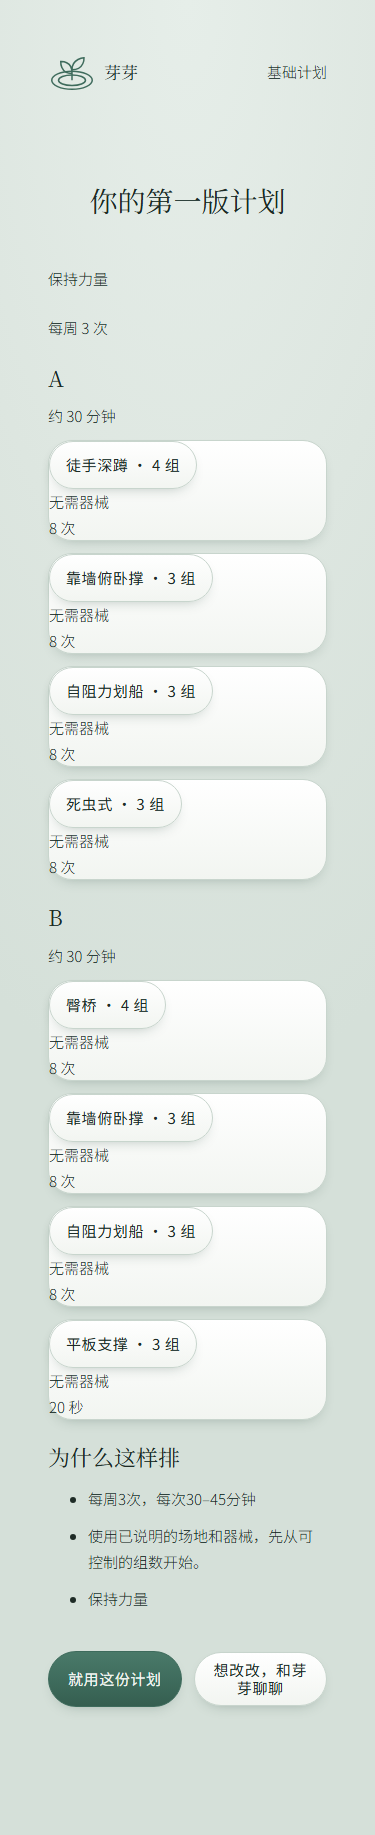
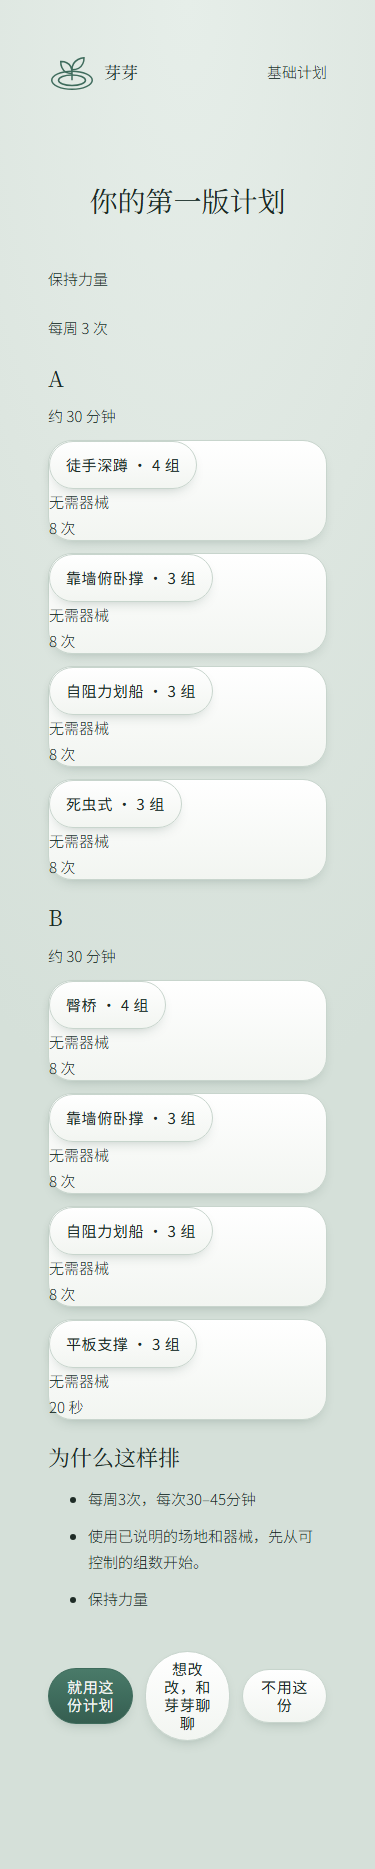
feat: add reversible plan removal and verified backup lifecycle to PR52

diff --git a/src/ui/mainline/context.tsx b/src/ui/mainline/context.tsx
@@ -1,3 +1,5 @@
+import { useFeature } from '../useFeature';
+import { isFeatureEnabled } from '../../application/feature-flags';
 import { countUsage, reportSafeError } from '../../application/monitoring-client';
 import { createContext, useContext, useEffect, useRef, useState, type ReactNode } from 'react';
 import { useLocation, useNavigate } from 'react-router-dom';
@@ -29,12 +31,15 @@ function week(timeZone: string) {
  return { from, to: date.toISOString().slice(0,10) };
 }
 function useController() {
+ const planLifecycle=useFeature('planLifecycle');
  const navigate = useNavigate(), location = useLocation(), appearance = useTheme();
  const [data,setData] = useState<Awaited<ReturnType<typeof workflow.snapshot>>>();
  const [monthFacts,setMonthFacts] = useState<MonthFacts>(), [previousFacts,setPreviousFacts]=useState<WeekFacts>(), [facts,setFacts] = useState<WeekFacts>(), [answers,setAnswers] = useState(blank), [step,setStep] = useState<0|1|2|3>(0);
  const [completedWeeks,setCompletedWeeks] = useState<[WeekFacts,WeekFacts]>();
  const [optionalCoach,setOptionalCoach]=useState<{body?:CoachRequest['body'];history?:string}>({});
  const [reviewKind,setReviewKind] = useState<'week'|'month'>('week');
+ const [draftDiscarded,setDraftDiscarded]=useState(false);
+ const [deletedNotice,setDeletedNotice]=useState<{planId:string;expiresAt:number}>();
  const [candidate,setCandidate] = useState<LocalCandidate>(), [busy,setBusy] = useState(false), [error,setError] = useState('');
  const [coachOpen,setCoachOpen]=useState(false),[coachRequest,setCoachRequest]=useState<CoachRequest>(),[coachRevision,setCoachRevision]=useState(0);
  const [coachInitialSend,setCoachInitialSend]=useState<{nonce:string;message:string;request:CoachRequest;expectedRevision:number}>();
@@ -56,13 +61,14 @@ function useController() {
  const locale: 'zh'|'en' = data?.profile?.locale === 'en' ? 'en' : 'zh', t = locale === 'zh' ? zh : en;
  const observedCounts=useRef<{plans:number;started:number;completed:number}|undefined>(undefined);
  async function reload() {
+  if(isFeatureEnabled('planLifecycle'))await workflow.purgeExpiredPlans();
   const next = await workflow.snapshot(); setData(next);
   const counters={plans:next.versions.length,started:next.workouts.length,completed:next.workouts.filter(w=>['complete','partial','not_started'].includes(w.status)).length};
   if(observedCounts.current){for(const [key,event] of [['plans','plan_confirmed'],['started','workout_started'],['completed','workout_completed']] as const){const delta=counters[key]-observedCounts.current[key];if(delta>0)countUsage(event,delta);}}observedCounts.current=counters;
   const review = await createV8DataService(repository).getReviewWorkouts();
   const legacyAnswers=(await repository.db.guidedStates.get('guided'))?.onboarding?.answers;
   setOptionalCoach({body:optionalCoachBody(next.profile,legacyAnswers),history:optionalCoachHistory([...review.legacyWorkouts,...review.workouts],activityDate(next.profile?.timeZone??'Asia/Shanghai'),next.profile?.timeZone??'Asia/Shanghai',next.profile?.locale==='en'?'en':'zh')});
-  const input={ ...week(next.profile?.timeZone ?? 'Asia/Shanghai'), timeZone: next.profile?.timeZone ?? 'Asia/Shanghai', weeklyTarget: next.version?.weeklyTarget ?? 2, ...review, activities: next.activities, bodyWeights: await repository.db.bodyWeights.toArray() };
+  const input={ ...week(next.profile?.timeZone ?? 'Asia/Shanghai'), timeZone: next.profile?.timeZone ?? 'Asia/Shanghai', weeklyTarget: next.version?.weeklyTarget ?? next.state?.reviewWeeklyTarget ?? next.state?.coachProfile?.weeklyTarget ?? 2, ...review, activities: next.activities, bodyWeights: await repository.db.bodyWeights.toArray() };
   setFacts(computeWeekFacts(input));
   const shift=(d:string,n:number)=>new Date(Date.parse(d+'T00:00:00Z')+n*86400000).toISOString().slice(0,10);
   const previous=computeWeekFacts({...input,from:shift(input.from,-7),to:shift(input.from,-1)});
@@ -82,14 +88,17 @@ function useController() {
   if(legacy?.onboarding?.answers)setAnswers(backfillOnboarding(legacy.onboarding.answers,next.profile?.locale==='en'?'en':'zh'));
   try{const saved=JSON.parse(localStorage.getItem(draftKey.current)??'null');if(saved?.answers && ['goalText','scheduleOriginalText','placeEquipmentText'].every(k=>typeof saved.answers[k]==='string') && typeof saved.answers.adultConfirmed==='boolean' && Array.isArray(saved.answers.cautions)){setAnswers(saved.answers);if([0,1,2,3].includes(saved.step))setStep(saved.step);}}catch{/* Preserve unknown raw draft. */}
   setReady(true);
-  if(location.pathname==='/'&&!next.version&&!next.active&&!legacy?.onboarding?.completed&&await repository.db.sessions.count()===0)navigate('/onboarding',{replace:true});
+  if(location.pathname==='/'&&!next.state?.planDismissedAt&&!next.plans.length&&!next.deletedPlans.length&&!next.version&&!next.active&&!legacy?.onboarding?.completed&&await repository.db.sessions.count()===0)navigate('/onboarding',{replace:true});
  })().catch(()=>{if(alive)setError(t.loadError);});return()=>{alive=false;};},[]);
+ useEffect(()=>{if(ready&&planLifecycle)void reload().catch(()=>setError(t.loadError));},[ready,planLifecycle]);
  useEffect(()=>{if(ready)try{localStorage.setItem(draftKey.current,JSON.stringify({answers,step}));}catch{setError(t.draftError);}},[answers,step,ready]);
+ async function deletePlan(planId:string){if(!isFeatureEnabled('planLifecycle'))return false;let success=false;await run(async()=>{if(!data)return;const removed=await workflow.deletePlan(planId,data.metadata.dataRevision);setDeletedNotice({planId,expiresAt:removed.undoUntil});success=true;});return success;}
+ async function undoPlan(){if(!deletedNotice||Date.now()>=deletedNotice.expiresAt){setDeletedNotice(undefined);return;}await run(async()=>{if(!data)return;await workflow.restorePlan(deletedNotice.planId,data.metadata.dataRevision,true);setDeletedNotice(undefined);});}
  const slots=getThemeSlots(appearance.theme);
  const name=(id:string)=>exercises.find(e=>e.id===id)?.name[locale]??id;
  const start=(templateId?:string,manualId?:string)=>run(async()=>{const record=await workflow.start(templateId,manualId);setWorkoutValues({});setFocusIndex(0);navigate(`/workout/${record.id}`);});
  const startManual=(ids:string[],selection?:ManualSelection)=>run(async()=>{const record=await workflow.start(undefined,undefined,ids,selection);setWorkoutValues({});setFocusIndex(0);navigate(`/workout/${record.id}`);});
- return {coachInitialSend,sendHomeCoach,reviewKind,setReviewKind,coachOpen,setCoachOpen,coachRequest,coachRevision,coachTrigger,openCoach,completedWeeks,monthFacts,previousFacts,workoutValues,setWorkoutValues,focusIndex,setFocusIndex,data,facts,answers,setAnswers,step,setStep,candidate,setCandidate,busy,error,locale,t,slots,name,navigate,run,reload,start,startManual,appearance};
+ return {draftDiscarded,setDraftDiscarded,deletedNotice,setDeletedNotice,deletePlan,undoPlan,coachInitialSend,sendHomeCoach,reviewKind,setReviewKind,coachOpen,setCoachOpen,coachRequest,coachRevision,coachTrigger,openCoach,completedWeeks,monthFacts,previousFacts,workoutValues,setWorkoutValues,focusIndex,setFocusIndex,data,facts,answers,setAnswers,step,setStep,candidate,setCandidate,busy,error,locale,t,slots,name,navigate,run,reload,start,startManual,appearance};
 }
 const Context=createContext<ReturnType<typeof useController>|null>(null);
 export const useMainline=()=>{const value=useContext(Context);if(!value)throw new Error('Missing mainline provider');return value;};

diff --git a/tests/e2e/plan-lifecycle-data.spec.ts b/tests/e2e/plan-lifecycle-data.spec.ts
@@ -1,0 +1,41 @@
+import { readFileSync } from 'node:fs';
+import { expect, test } from '@playwright/test';
+const source=JSON.parse(readFileSync(new URL('../fixtures/legacy-backups/pr52-before-plan-delete.json',import.meta.url),'utf8'));
+for(const fail of [false,true])test(`DB10 lifecycle upgrade ${fail?'rolls back on failure':'preserves every historical fact'}`,async({page})=>{
+ await page.goto('/tests/e2e/helpers/capacity-entry.html');
+ const result=await page.evaluate(async({source,fail})=>{
+ const load=(p:string)=>import(/* @vite-ignore */p),{Dexie}=await load('/tests/e2e/helpers/cal-browser.ts'),{createDatabase}=await load('/src/persistence/db.ts');
+ const schema=createDatabase(`shape-${crypto.randomUUID()}`);await schema.open();const stores=Object.fromEntries(schema.tables.filter((t:any)=>t.name!=='v8PlanReferences').map((t:any)=>[t.name,[t.schema.primKey.src,...t.schema.indexes.map((i:any)=>i.src)].join(',')]));schema.close();await schema.delete();
+ const name=`delete-upgrade-${crypto.randomUUID()}`,old=new Dexie(name);old.version(10).stores(stores);await old.open();
+ const mapping:Record<string,string>={v8Plans:'plans',v8PlanVersions:'planVersions',v8Workouts:'workouts',v8Activities:'activities',v8State:'state'};
+ for(const table of old.tables){const value=mapping[table.name]?source.data.v8[mapping[table.name]]:source.data[table.name];if(value!==undefined)await table.bulkAdd(Array.isArray(value)?value:[value]);}
+ const snap=(db:any,omit:string[]=[])=>db.transaction('r',db.tables,async()=>JSON.stringify(await Promise.all(db.tables.filter((t:any)=>!omit.includes(t.name)).sort((a:any,b:any)=>a.name.localeCompare(b.name)).map(async(t:any)=>[t.name,await t.toArray()]))));
+ const before=await snap(old),facts=await snap(old,['metadata']);old.close();const db=createDatabase(name);
+ try{if(fail)db.metadata.hook('updating',()=>{throw Error('injected upgrade failure');});const rejected=await db.open().then(()=>false,()=>true);
+ if(fail){db.close();const check=new Dexie(name);await check.open();const result={rejected,same:before===await snap(check),version:check.verno};check.close();return result;}
+ const after=await snap(db);db.close();await db.open();return{rejected,same:facts===await snap(db,['metadata','v8PlanReferences']),version:db.verno,metadata:(await db.metadata.toCollection().first()).schemaVersion,empty:await db.v8PlanReferences.count()===0,idempotent:after===await snap(db)};
+ }finally{db.close();await db.delete();}
+ },{source,fail});
+ expect(result).toEqual(fail?{rejected:true,same:true,version:10}:{rejected:false,same:true,version:11,metadata:11,empty:true,idempotent:true});
+});
+
+test('real IndexedDB deletion backup, expiry cleanup and rollback preserve training and review',async({page})=>{
+ await page.goto('/tests/e2e/helpers/capacity-entry.html');
+ const result=await page.evaluate(async source=>{
+ const load=(p:string)=>import(/* @vite-ignore */p),{createDatabase}=await load('/src/persistence/db.ts'),{createRepository}=await load('/src/persistence/repository.ts'),{createProfileService}=await load('/src/application/profile.ts'),{createBackupService}=await load('/src/application/backup.ts'),{createPlanLifecycle,PLAN_RETENTION_MS}=await load('/src/application/plan-lifecycle.ts'),{computeWeekFacts}=await load('/src/application/review/compute.ts');
+ const db=createDatabase(`delete-roundtrip-${crypto.randomUUID()}`),repo=createRepository(db),backup=createBackupService(repo);let now=Date.now();const life=createPlanLifecycle(repo,()=>now);
+ try{await createProfileService(repo).initialize('zh');
+ const restore=async(value:any)=>{const valid=await backup.validateBackup(new File([JSON.stringify(value)],'plans.json'));await backup.importBackup(valid,{backupExported:true,replacementConfirmed:true,expectedRevision:valid.expectedRevision});};
+ await restore(source);const plan=(await db.v8Plans.toArray())[0],before=JSON.stringify(await db.v8Workouts.toArray());
+ const facts=async()=>computeWeekFacts({from:'2026-10-05',to:'2026-10-11',timeZone:'Asia/Shanghai',weeklyTarget:3,workouts:await db.v8Workouts.toArray(),activities:[],bodyWeights:[]});const previous=JSON.stringify(await facts());
+ await life.deletePlan(plan.id,(await repo.readMetadata()).dataRevision);const exported=JSON.parse(await(await backup.exportBackup()).text());await restore(exported);const softRestored=(await db.v8Plans.get(plan.id)).deletedAt===exported.data.v8.plans[0].deletedAt;
+ const snap=()=>db.transaction('r',db.tables,async()=>JSON.stringify(await Promise.all(db.tables.map(async(t:any)=>[t.name,await t.toArray()]))));
+ now=Date.parse(exported.data.v8.plans[0].deletedAt)+PLAN_RETENTION_MS;
+ const saved=await snap(),reject=()=>{throw Error('injected cleanup failure');};db.v8Plans.hook('deleting',reject);const failed=await life.purgeExpiredPlans().then(()=>false,()=>true);db.v8Plans.hook('deleting').unsubscribe(reject);const rolledBack=saved===await snap();
+ const count=await life.purgeExpiredPlans(),after=await snap();const again=await life.purgeExpiredPlans();const idempotent=after===await snap();
+ const cleaned=JSON.parse(await(await backup.exportBackup()).text());await restore(cleaned);
+ return{softRestored,failed,rolledBack,count,again,idempotent,envelope:cleaned.schemaVersion,plans:await db.v8Plans.count(),versions:await db.v8PlanVersions.count(),references:await db.v8PlanReferences.count(),sameWorkouts:before===JSON.stringify(await db.v8Workouts.toArray()),sameFacts:previous===JSON.stringify(await facts())};
+ }finally{db.close();await db.delete();}
+ },source);
+ expect(result).toEqual({softRestored:true,failed:true,rolledBack:true,count:1,again:0,idempotent:true,envelope:9,plans:0,versions:0,references:1,sameWorkouts:true,sameFacts:true});
+});

diff --git a/src/ui/mainline/MainlineApp.tsx b/src/ui/mainline/MainlineApp.tsx
@@ -1,3 +1,5 @@
+import { planLifecycleCopy } from '../../i18n/features/plan/lifecycle';
+import { Toast } from '../components/common/Toast';
 import { RestoreBoundary } from './RestoreBoundary';
 import { Routes,Route,useLocation,Navigate } from 'react-router-dom';
 import { ThemeProvider } from '../../themes/ThemeProvider';
@@ -28,7 +30,7 @@ import '../theme.css';
 import './mainline.css';
 const path=(id:V8RouteId)=>v8Routes.find(r=>r.id===id)!.path;
 function OnboardingRoute(){const c=useMainline();return <OnboardingPage locale={c.locale} answers={c.answers} step={c.step} slots={c.slots} mode="basic" busy={c.busy} error={c.error} onChange={a=>{c.setAnswers(a);c.setCandidate(undefined);}} onStep={c.setStep} onManual={()=>c.navigate('/manual')} onGenerate={()=>void c.run(async()=>{c.setCandidate(await workflow.propose(localProfile(c.answers)));c.navigate(path('draft'));})}/>;}
-function DraftRoute(){const c=useMainline();if(!c.candidate)return <Navigate to={path('onboarding')} replace/>;return <PlanDraftPage locale={c.locale} candidate={c.candidate} basic slots={c.slots} busy={c.busy} error={c.error} exerciseText={id=>({name:c.name(id),instructions:exercises.find(e=>e.id===id)?.steps[c.locale].join(' ')??''})} onDiscuss={()=>c.openCoach('ONBOARD_PLAN',undefined,c.candidate!.profile)} onConfirm={()=>void c.run(async()=>{await workflow.adopt(c.candidate!);c.navigate('/');})}/>;}
+function DraftRoute(){const c=useMainline();if(!c.candidate)return <Navigate to={c.draftDiscarded?'/':path('onboarding')} replace/>;return <PlanDraftPage locale={c.locale} candidate={c.candidate} basic slots={c.slots} busy={c.busy} error={c.error} exerciseText={id=>({name:c.name(id),instructions:exercises.find(e=>e.id===id)?.steps[c.locale].join(' ')??''})} onDiscard={()=>{c.setDraftDiscarded(true);c.setCandidate(undefined);c.navigate('/');}} onDiscuss={()=>c.openCoach('ONBOARD_PLAN',undefined,c.candidate!.profile)} onConfirm={()=>void c.run(async()=>{await workflow.adopt(c.candidate!);c.navigate('/');})}/>;}
 function Shell(){const c=useMainline();const{data,t,slots,navigate,error}=c,location=useLocation();const immersive=['/onboarding','/plan-draft'].includes(location.pathname)||location.pathname.startsWith('/workout/');const reviewing=location.pathname===path('review');
  if(!data)return <main className="v8-shell"><p role="status">{error||t.loading}</p></main>;
  return <div className="v8-shell" data-training-active={location.pathname.startsWith('/workout/')&&!location.pathname.endsWith('/finish')}>
@@ -36,6 +38,7 @@ function Shell(){const c=useMainline();const{data,t,slots,navigate,error}=c,loca
  {error&&!['/onboarding','/plan-draft'].includes(location.pathname)&&<p role="alert">{error}</p>}
  <Routes><Route path="/settings/nutrition" element={<NutritionPage/>}/><Route path="/settings/import" element={<ActivityImportPage/>}/><Route path="/trial" element={<main><TrialAccess onStartPlanning={()=>navigate('/onboarding')}/><Button onClick={()=>navigate('/settings')}>{t.back}</Button></main>}/><Route path="/ai" element={<Navigate to="/onboarding" replace/>}/><Route path={path('exercises')} element={<ExercisesPage/>}/><Route path={path('plan')} element={<PlanRoute/>}/><Route path={path('versions')} element={<PlanRoute versions/>}/><Route path={path('activity')} element={<ActivityPage/>}/><Route path={path('onboarding')} element={<OnboardingRoute/>}/><Route path={path('draft')} element={<DraftRoute/>}/><Route path={path('next')} element={<NextPage/>}/><Route path={path('workout')} element={<WorkoutPage/>}/><Route path={path('finish')} element={<FinishPage/>}/><Route path="/manual" element={<ManualPage/>}/><Route path={path('review')} element={<ReviewPage/>}/><Route path={path('settings')} element={<SettingsPage/>}/><Route path={path('appearance')} element={<AppearancePage/>}/><Route path="*" element={<NextPage/>}/></Routes>
   {!immersive&&location.pathname!=='/activity'&&location.pathname!=='/manual'&&<><V8Reminder chatOpen={c.coachOpen} locale={c.locale} onStart={()=>navigate('/')} />{location.pathname!=='/'&&!reviewing&&<Button className="v8-coach-launcher" aria-label={t.askCoach} onClick={()=>c.openCoach('MODIFY_PLAN')}><CoachVisual/></Button>}</>}
+ <Toast key={c.deletedNotice?.expiresAt} message={c.deletedNotice?planLifecycleCopy[c.locale].deleted:null} duration={c.deletedNotice?Math.max(0,c.deletedNotice.expiresAt-Date.now()):10000} onDismiss={()=>c.setDeletedNotice(undefined)} action={c.deletedNotice?{label:planLifecycleCopy[c.locale].undo,onClick:()=>void c.undoPlan(),disabled:c.busy}:undefined}/>
  <CoachPanel initialSend={c.coachInitialSend} locale={c.locale} unavailableReason={data.active&&data.active.planVersionId!==data.version?.id?t.oldWorkout:undefined} onLocalPlan={()=>{c.setCoachOpen(false);navigate('/onboarding');}} onLocalReview={()=>{c.setReviewKind('week');c.setCoachOpen(false);navigate('/review');}} open={c.coachOpen} onClose={()=>c.setCoachOpen(false)} request={c.coachRequest} expectedRevision={c.coachRevision} triggerRef={c.coachTrigger} onApply={async candidate=>{await workflow.applyCoachCandidate(candidate);await c.reload();if(candidate.request.task==='ONBOARD_PLAN')navigate('/');}}/>
  {!immersive&&<nav aria-label={t.brand}>{(['next','plan','review'] as const).map((id,i)=><Button key={id} onClick={()=>navigate(path(id))}><slots.NavIcon kind={(['training','plan','review'] as const)[i]} selected={location.pathname===path(id)} label={([t.training,t.plan,t.review])[i]}/>{([t.training,t.plan,t.review])[i]}</Button>)}</nav>}
  </div>;

diff --git a/src/ui/pages/plan/PlanRoute.tsx b/src/ui/pages/plan/PlanRoute.tsx
@@ -1,20 +1,35 @@
+import { useFeature } from '../../useFeature';
 import { useRef, useState } from 'react';
 import { useSearchParams } from 'react-router-dom';
 import { PlanPage } from './PlanPage';
 import { VersionsPage } from './VersionsPage';
 import { useMainline } from '../../mainline/context';
-import { Button } from '../../components/common';
+import { Button, MorphPanel, Sheet } from '../../components/common';
 import { ExerciseGuidePanel } from '../../components/ExerciseGuide';
+import { planLifecycleCopy } from '../../../i18n/features/plan/lifecycle';
 import guideZh from '../../../i18n/features/training/guide.zh.json';
 import guideEn from '../../../i18n/features/training/guide.en.json';
 export function PlanRoute({ versions = false }: { versions?: boolean }) {
+ const enabled=useFeature('planLifecycle');
  const c=useMainline(), [query,setQuery]=useSearchParams(), [exercise,setExercise]=useState<string>();
  const triggerRef=useRef<HTMLElement|null>(null),[open,setOpen]=useState(false);
- const copy=c.locale==='zh'?guideZh:guideEn;
- const selected=c.data?.versions.find(v=>v.id===query.get('version'))??c.data?.version;
- if(versions)return <main><VersionsPage versions={c.data?.versions??[]} currentVersionId={c.data?.version?.id??''} language={c.locale} onBack={()=>c.navigate('/plans')} onView={v=>c.navigate(`/plans?version=${encodeURIComponent(v.id)}`)}/></main>;
- return <main>{selected?<PlanPage version={selected} currentVersionId={c.data?.version?.id??''} language={c.locale} exerciseName={c.name} onVersions={()=>c.navigate('/plans/versions')} onExercises={()=>c.navigate('/exercises')} onExercise={(v,id,index)=>{triggerRef.current=document.activeElement as HTMLElement;setExercise(v.templates.find(t=>t.id===id)?.items[index]?.exerciseId);setOpen(true);}}/>:<><h1>{c.t.plan}</h1><Button onClick={()=>c.navigate('/onboarding')}>{c.t.create}</Button></>}
+ const deleteTrigger=useRef<HTMLElement|null>(null),[deleting,setDeleting]=useState<string>();
+ const copy=c.locale==='zh'?guideZh:guideEn, life=planLifecycleCopy[c.locale];
+ const plans=c.data?.plans??[], previous=plans.filter(p=>p.id!==c.data?.plan?.id);
+ const selectedVersion=query.has('version')?c.data?.versions.find(v=>v.id===query.get('version')):undefined;
+ const selectedPlan=query.has('version')?plans.find(p=>p.id===selectedVersion?.planId):query.has('plan')?plans.find(p=>p.id===query.get('plan')):c.data?.plan;
+ const selected=selectedVersion??c.data?.versions.find(v=>v.id===selectedPlan?.currentVersionId);
+ const selectedQuery=selectedPlan?`?plan=${encodeURIComponent(selectedPlan.id)}`:'';
+ const target=plans.find(p=>p.id===deleting);
+ const activePlanId=c.data?.versions.find(v=>v.id===c.data?.active?.planVersionId)?.planId;
+ const askDelete=(id:string)=>{deleteTrigger.current=document.activeElement as HTMLElement;setDeleting(id);};
+ if(versions)return <main><VersionsPage versions={(c.data?.versions??[]).filter(v=>v.planId===selectedPlan?.id)} currentVersionId={c.data?.version?.id??''} language={c.locale} onBack={()=>c.navigate(`/plans${selectedQuery}`)} onView={v=>c.navigate(`/plans?version=${encodeURIComponent(v.id)}`)}/></main>;
+ return <main>{selected?<PlanPage version={selected} currentVersionId={c.data?.version?.id??''} language={c.locale} exerciseName={c.name} onVersions={()=>c.navigate(`/plans/versions${selectedQuery}`)} onExercises={()=>c.navigate('/exercises')} onExercise={(v,id,index)=>{triggerRef.current=document.activeElement as HTMLElement;setExercise(v.templates.find(t=>t.id===id)?.items[index]?.exerciseId);setOpen(true);}}/>:<><h1>{c.t.plan}</h1><p>{life.empty}</p><Button onClick={()=>c.navigate('/onboarding')}>{life.create}</Button></>}
  <ExerciseGuidePanel id={exercise} locale={c.locale} open={open} onClose={()=>setOpen(false)} triggerRef={triggerRef}/>
  <section><Button onClick={()=>c.navigate('/settings#reminders')}>{copy.reminder}</Button><p>{copy.reminderHint}</p></section>
- {query.has('version')&&<Button onClick={()=>setQuery({})}>{c.t.next}</Button>}</main>;
+ {query.has('version')||query.has('plan')?<Button onClick={()=>setQuery({})}>{life.back}</Button>:<section aria-labelledby="previous-plans-title"><h2 id="previous-plans-title">{life.previous}</h2>{!previous.length&&<p>{life.noPrevious}</p>}{previous.map(plan=><Sheet key={plan.id}><h3>{plan.name}</h3><Button onClick={()=>setQuery({plan:plan.id})}>{life.view}</Button><Button hidden={!enabled} disabled={c.busy||activePlanId===plan.id} onClick={()=>askDelete(plan.id)}>{life.delete}</Button>{activePlanId===plan.id&&<p>{life.active}</p>}</Sheet>)}</section>}
+ {enabled&&selectedPlan&&!query.has('version')&&<><Button disabled={c.busy||activePlanId===selectedPlan.id} onClick={()=>askDelete(selectedPlan.id)}>{selectedPlan.id===c.data?.plan?.id?life.stop:life.delete}</Button>{activePlanId===selectedPlan.id&&<p>{life.active}</p>}</>}
+ <MorphPanel open={enabled&&!!target} title={life.confirmTitle} closeLabel={life.cancel} onClose={()=>{if(!c.busy)setDeleting(undefined);}} triggerRef={deleteTrigger}>
+ <p>{target?.name}</p><p>{life.confirmHint}</p><Button disabled={c.busy} onClick={()=>{if(target)void c.deletePlan(target.id).then(success=>{if(success){setDeleting(undefined);setQuery({});}});}}>{life.confirm}</Button>
+ </MorphPanel></main>;
 }

diff --git a/src/ui/pages/settings/SettingsPage.tsx b/src/ui/pages/settings/SettingsPage.tsx
@@ -1,3 +1,5 @@
+import { DeletedPlans } from './DeletedPlans';
+import { planLifecycleCopy } from '../../../i18n/features/plan/lifecycle';
 import { anonymousUsageEnabled, setAnonymousUsage } from '../../../application/monitoring-client';
 import { operationsCopy } from '../../../i18n/features/settings/operations';
 import { SystemNotifications } from './SystemNotifications';
@@ -14,13 +16,14 @@ import { profileService } from '../../../application/profile';
 import i18n from '../../../i18n';
 import { lifestyleCopy } from '../../../i18n/features/settings/lifestyle';
 import { useFeature } from '../../useFeature';
-export function SettingsPage(){const{t,navigate,locale,run,busy}=useMainline();const location=useLocation();const[section,setSection]=useState(location.hash==='#reminders'?'reminders':'');const copy=locale==='zh'?settingsZh:settingsEn; const [vibration,setVibration]=useState(()=>{try{return localStorage.getItem(restVibrationKey)==='on';}catch{return false;}}); const analytics=useFeature('anonymousUsage'), errorReports=useFeature('errorReports'); const [optedIn,setOptedIn]=useState(anonymousUsageEnabled); const nutritionEnabled=useFeature('nutrition'), importEnabled=useFeature('activityImport'); const [hasNutrition,setHasNutrition]=useState(false); useEffect(()=>{void import('../../../persistence/repository').then(({repository})=>repository.db.nutritionRecords.count()).then(n=>setHasNutrition(n>0));},[]); const vibrationSupported=typeof navigator.vibrate==='function';
+export function SettingsPage(){const{t,navigate,locale,run,busy}=useMainline();const location=useLocation();const[section,setSection]=useState(location.hash==='#reminders'?'reminders':'');const copy=locale==='zh'?settingsZh:settingsEn; const [vibration,setVibration]=useState(()=>{try{return localStorage.getItem(restVibrationKey)==='on';}catch{return false;}}); const planLifecycle=useFeature('planLifecycle'); const analytics=useFeature('anonymousUsage'), errorReports=useFeature('errorReports'); const [optedIn,setOptedIn]=useState(anonymousUsageEnabled); const nutritionEnabled=useFeature('nutrition'), importEnabled=useFeature('activityImport'); const [hasNutrition,setHasNutrition]=useState(false); useEffect(()=>{void import('../../../persistence/repository').then(({repository})=>repository.db.nutritionRecords.count()).then(n=>setHasNutrition(n>0));},[]); const vibrationSupported=typeof navigator.vibrate==='function';
  useEffect(()=>{void i18n.changeLanguage(locale);},[locale]);
  return <main><h1>{t.settings}</h1><label>{copy.language}<select value={locale} disabled={busy} onChange={event=>{const next=event.target.value==='en'?'en':'zh';void run(async()=>{await profileService.setLocale(next);await i18n.changeLanguage(next);});}}><option value="zh">{copy.chinese}</option><option value="en">{copy.english}</option></select></label><Button onClick={()=>navigate('/settings/appearance')}>{t.appearance}</Button>
  <Button onClick={()=>setSection(section==='reminders'?'':'reminders')}>{copy.settingsPage0}</Button>
  <Button onClick={()=>setSection(section==='backup'?'':'backup')}>{copy.settingsPage1}</Button>
  <Button onClick={()=>setSection(section==='privacy'?'':'privacy')}>{copy.settingsPage2}</Button>
  {(nutritionEnabled||hasNutrition)&&<Button onClick={()=>navigate('/settings/nutrition')}>{lifestyleCopy[locale].nutrition}</Button>}{importEnabled&&<Button onClick={()=>navigate('/settings/import')}>{lifestyleCopy[locale].importActivity}</Button>}
+ {planLifecycle&&<Button onClick={()=>setSection(section==='deletedPlans'?'':'deletedPlans')}>{planLifecycleCopy[locale].trash}</Button>}{planLifecycle&&section==='deletedPlans'&&<DeletedPlans/>}
  <Button onClick={()=>navigate('/trial')}>{copy.trial}</Button>
  <Button onClick={()=>navigate('/onboarding')}>{copy.settingsPage3}</Button>
  <label><input type="checkbox" checked={vibration} disabled={!vibrationSupported} onChange={event=>{const value=event.target.checked;try{localStorage.setItem(restVibrationKey,value?'on':'off');setVibration(value);}catch{/* Keep the saved preference unchanged. */}}}/>{copy.restVibration}</label>{!vibrationSupported&&<p>{copy.vibrationUnavailable}</p>}{section==='reminders'&&<ReminderSettings locale={locale}/>}{section==='backup'&&<BackupPanel/>}

diff --git a/tests/e2e/mainline-polish.spec.ts b/tests/e2e/mainline-polish.spec.ts
@@ -108,3 +108,16 @@ test('manual selection to completed record, appearance previews and reminders',a
  const count=(await empty.innerText()).match(/清空筛选后有 (\d+) 个动作/)![1];await shot(page,'manual-empty-recovery');
  await empty.getByRole('button',{name:'清空筛选',exact:true}).click();await expect(page.getByRole('searchbox')).toHaveValue('');await expect(page.locator('.manual-results-heading')).toContainText(count);
  });
+
+ test('plan removal, undo and settings recovery preserve review totals',async({page})=>{
+ if(!process.env.POLISH_BASE_URL)await page.route('**/api/v1/features',r=>r.fulfill({json:{version:1,flags:{planLifecycle:true},expiresAt:Date.now()+60000}}));
+ await onboard(page);await page.getByRole('button',{name:'就用这份计划',exact:true}).click();await expect(page.getByRole('heading',{name:'下一次',exact:true})).toBeVisible();
+ await page.getByRole('button',{name:'开始训练',exact:true}).click();await page.getByRole('button',{name:'完成这一组',exact:true}).click();await page.getByRole('button',{name:'暂停或结束',exact:true}).click();await page.getByRole('dialog').getByRole('button',{name:'结束并记下',exact:true}).click();await page.getByRole('button',{name:'记下来',exact:true}).click();
+ await expect(page.locator('.v8-facts dd').nth(1)).toHaveText('1');const before=await page.locator('.v8-facts dd').allTextContents();
+ const remove=async()=>{await page.goto('/plans');await page.getByRole('button',{name:'不再使用这份计划',exact:true}).click();const dialog=page.getByRole('dialog');await expect(dialog).toContainText('训练记录、回顾统计和进步记录全部保留');await shot(page,'plan-delete-confirm');await dialog.getByRole('button',{name:'确认删除',exact:true}).click();await expect(page.getByText('已删除计划',{exact:true})).toBeVisible();};
+ await remove();await page.getByRole('button',{name:'撤销',exact:true}).click();await expect(page.getByRole('button',{name:'不再使用这份计划',exact:true})).toBeVisible();
+ await remove();await page.goto('/');await expect(page.getByRole('button',{name:'重新制定计划',exact:true})).toBeVisible();await expect(page.getByRole('button',{name:'手动训练',exact:true})).toBeVisible();await shot(page,'no-plan');
+ await page.goto('/review');await expect(page.locator('.v8-facts dd')).toHaveText(before);
+ await page.goto('/settings');await page.getByRole('button',{name:'已删除的计划',exact:true}).click();await expect(page.getByRole('button',{name:'恢复',exact:true})).toBeVisible();await shot(page,'plan-restore');await page.getByRole('button',{name:'恢复',exact:true}).click();await expect(page.getByText('已恢复到以前的计划',{exact:true})).toBeVisible();
+ await page.goto('/plans');await expect(page.getByRole('heading',{name:'以前的计划',exact:true})).toBeVisible();await expect(page.getByRole('button',{name:'查看',exact:true})).toBeVisible();await shot(page,'previous-plans');
+ });

diff --git a/src/ui/pages/training/NextPage.tsx b/src/ui/pages/training/NextPage.tsx
@@ -1,3 +1,4 @@
+import { planLifecycleCopy } from '../../../i18n/features/plan/lifecycle';
 import { useState } from 'react';
 import { buildCoachRequest } from '../../../coach/request-builder';
 import { coachMessageScope } from '../../../coach/consent';
@@ -32,7 +33,7 @@ export function NextPage(){
  {data?.active&&<Button onClick={()=>navigate(`/workout/${data.active!.id}`)}>{t.ongoing}</Button>}
  {selected?<><slots.FeatureCard context="next" motionReduced={false} trainingActive={false}><slots.StartHero {...selected} templateId={selected.id} templateLabel={selected.name} nextLabel={t.next} startLabel={t.start} disabled={busy||!!data?.active} onStart={()=>void start(selected.id)}/><p className="v8-center">{lastSelected?.status==='partial'?t.partialReason:format(t.reason,{minutes:selected.estimatedMinutes})}</p></slots.FeatureCard>
  <p>{t.details}</p><div className="v8-capsules">{selected.items.map((item,index)=><details key={index}><summary>{name(item.exerciseId)} · {item.sets} {t.sets}</summary><p>{exercises.find(e=>e.id===item.exerciseId)?.steps[data?.profile?.locale??'zh'].join(' ')}</p></details>)}</div>
- <div className="v8-row"><Button disabled={templates.length<2} onClick={()=>setChoice(templates[(templates.findIndex(item=>item.id===selected.id)+1)%templates.length].id)}>{t.switch}</Button><Button onClick={()=>navigate('/manual')}>{t.manual}</Button></div></>:<Button variant="primary" onClick={()=>navigate('/onboarding')}>{t.create}</Button>}
+ <div className="v8-row"><Button disabled={templates.length<2} onClick={()=>setChoice(templates[(templates.findIndex(item=>item.id===selected.id)+1)%templates.length].id)}>{t.switch}</Button><Button onClick={()=>navigate('/manual')}>{t.manual}</Button></div></>:<div className="v8-row"><Button variant="primary" onClick={()=>navigate('/onboarding')}>{planLifecycleCopy[locale].create}</Button><Button onClick={()=>navigate('/manual')}>{t.manual}</Button></div>}
  <Button onClick={()=>navigate('/activity')}>{t.recordActivity}</Button>
  {homePreview&&<section><CoachScopeDisclosure request={homePreview} locale={locale}/><Composer value={message} onChange={value=>setMessage(value.slice(0,1600))} label={coachCopy.input} sendLabel={coachCopy.send} disabled={busy} onSend={()=>{if(homePreview&&message.trim())sendHomeCoach(homePreview,message);}}/></section>}
  <Button disabled={busy} onClick={()=>openCoach('ADJUST_TODAY',selected?.id)}><CoachVisual/>{t.askCoach}</Button>

diff --git a/src/ui/pages/onboarding/PlanDraftPage.tsx b/src/ui/pages/onboarding/PlanDraftPage.tsx
@@ -1,3 +1,4 @@
+import { planLifecycleCopy } from '../../../i18n/features/plan/lifecycle';
 import type { CoachResponse } from '../../../coach/contracts';
 import { EQUIPMENT, equipmentLabel } from '../../../catalog/taxonomy';
 import type { V8Locale } from '../../../i18n/namespaces.contract';
@@ -17,9 +18,9 @@ export interface PlanDraftPageProps {
   slots: Pick<ThemeSlots, 'BrandMark' | 'AiLine'>;
   exerciseText: (exerciseId: string) => { name: string; instructions: string };
   /** Parent must revalidate candidate identity, version and restore generation before writing. */
-  onConfirm: (candidate: OnboardingProposal) => void; onDiscuss: () => void;
+  onConfirm: (candidate: OnboardingProposal) => void; onDiscuss: () => void; onDiscard?: () => void;
 }
-export function PlanDraftPage({ locale, candidate, basic = false, busy = false, error, slots, exerciseText, onConfirm, onDiscuss }: PlanDraftPageProps) {
+export function PlanDraftPage({ locale, candidate, basic = false, busy = false, error, slots, exerciseText, onConfirm, onDiscuss, onDiscard }: PlanDraftPageProps) {
   const t = locale === 'zh' ? zh : en, plan = candidate.proposal;
   const guideCopy=locale==='zh'?guideZh:guideEn;
   const [detail,setDetail]=useState<string>(),trigger=useRef<HTMLElement|null>(null);
@@ -36,7 +37,7 @@ export function PlanDraftPage({ locale, candidate, basic = false, busy = false, 
       </section>)}
       <section><h2>{t.why}</h2><ul>{plan.reasons.map((reason, i) => <li key={i}>{reason}</li>)}</ul></section>
       {error && <p role="alert">{error}</p>}
-      <footer><Button variant="primary" disabled={busy || !plan.templates.length} onClick={() => { if (!busy && plan.templates.length) onConfirm(candidate); }}>{busy ? t.saving : t.accept}</Button><Button disabled={busy} onClick={onDiscuss}>{t.change}</Button></footer>
+      <footer><Button variant="primary" disabled={busy || !plan.templates.length} onClick={() => { if (!busy && plan.templates.length) onConfirm(candidate); }}>{busy ? t.saving : t.accept}</Button><Button disabled={busy} onClick={onDiscuss}>{t.change}</Button>{onDiscard&&<Button disabled={busy} onClick={onDiscard}>{planLifecycleCopy[locale].discard}</Button>}</footer>
     </section>
     <ExerciseGuidePanel id={detail} locale={locale} open={!!detail} onClose={()=>setDetail(undefined)} triggerRef={trigger}/>
   </main>;

diff --git a/tests/e2e/followup-lifestyle.spec.ts b/tests/e2e/followup-lifestyle.spec.ts
@@ -7,7 +7,7 @@ test('V8 database upgrade is additive, idempotent and rolls back a failing trans
  const source=JSON.parse(readFileSync(new URL('../fixtures/legacy-backups/v807-mainline.json',import.meta.url),'utf8'));
  await page.goto('/settings');
  const upgraded=await page.evaluate(async source=>{const p='/tests/e2e/helpers/followup-migration.ts';return(await import(/* @vite-ignore */ p)).checkV8Upgrade(source);},source);
- expect(upgraded).toEqual({unchanged:true,version:10,metadata:10,empty:true});
+ expect(upgraded).toEqual({unchanged:true,version:11,metadata:11,empty:true});
  const failed=await page.evaluate(async source=>{const p='/tests/e2e/helpers/followup-migration.ts';return(await import(/* @vite-ignore */ p)).checkV8Upgrade(source,true);},source);
  expect(failed).toEqual({rejected:true,version:8,unchanged:true});
 });
@@ -54,7 +54,7 @@ test('every UI-exported legacy and V8 backup restores through new envelope witho
     for (const table of ['profiles','plans','planVersions','sessions','sets','bodyWeights','aiMemoryNotes']) expect(result.first.data[table], `${source.name}:${table}`).toEqual(source.value.data[table]);
     expect(result.first.schemaVersion).toBe(9); expect(result.first.data.metadata.schemaVersion).toBe(11);
     expect(result.second.data.v8).toEqual(result.first.data.v8);
-    if (source.value.data.v8) expect(result.first.data.v8).toEqual(source.value.data.v8);
+    if (source.value.data.v8) expect(result.first.data.v8).toEqual({...source.value.data.v8,planReferences:source.value.data.v8.planReferences??[]});
     expect(result.first.data.nutritionRecords).toEqual(source.value.data.nutritionRecords ?? []);
     expect(result.second.data.nutritionRecords).toEqual(result.first.data.nutritionRecords);
     expect(result.second.data.activityImportReceipts).toEqual(result.first.data.activityImportReceipts);

diff --git a/tests/e2e/helpers/capacity-browser.ts b/tests/e2e/helpers/capacity-browser.ts
@@ -49,8 +49,8 @@ export async function prepareCapacity(kind: 'small' | '5MiB' | '6MiB' | '8MiB' |
   await repo.write(async () => { await db.sessions.bulkAdd(sessions); await db.sets.bulkAdd(sets); await synchronizeTrainingMemo(repo); });
   const start = performance.now();
   const envelope = await db.transaction('r', db.tables, async () => ({
-    format: 'fitness-local', schemaVersion: 8, catalogVersion: 1, exportedAt: stamp,
-    data: { nutritionRecords: await db.nutritionRecords.toArray(), activityImportReceipts: await db.activityImportReceipts.toArray(), v8: { state: await db.v8State.get('v8'), plans: [], planVersions: [], workouts: [], activities: [] }, metadata: await repo.readMetadata(), profiles: await db.profiles.toArray(), plans: await db.plans.toArray(),
+    format: 'fitness-local', schemaVersion: 9, catalogVersion: 1, exportedAt: stamp,
+    data: { nutritionRecords: await db.nutritionRecords.toArray(), activityImportReceipts: await db.activityImportReceipts.toArray(), v8: { planReferences: [], state: await db.v8State.get('v8'), plans: [], planVersions: [], workouts: [], activities: [] }, metadata: await repo.readMetadata(), profiles: await db.profiles.toArray(), plans: await db.plans.toArray(),
       planVersions: await db.planVersions.toArray(), sessions: await db.sessions.toArray(), sets: await db.sets.toArray(),
       scheduledWorkouts: await db.scheduledWorkouts.toArray(), bodyWeights: await db.bodyWeights.toArray(),
       trainingMemo: (await db.trainingMemo.get(1))!, aiMemoryNotes: await db.aiMemoryNotes.toArray(),

diff --git a/src/ui/components/common/Toast.tsx b/src/ui/components/common/Toast.tsx
@@ -1,7 +1,8 @@
+import { Button } from './index';
 import { useEffect, useRef } from 'react';
 
-export type ToastProps = { message: string | null; onDismiss: () => void; duration?: number };
-export function Toast({ message, onDismiss, duration = 2400 }: ToastProps) {
+export type ToastProps = { message: string | null; onDismiss: () => void; duration?: number; action?: { label: string; onClick: () => void; disabled?: boolean } };
+export function Toast({ message, onDismiss, duration = 2400, action }: ToastProps) {
   const dismiss = useRef(onDismiss);
   useEffect(() => { dismiss.current = onDismiss; }, [onDismiss]);
   useEffect(() => {
@@ -9,5 +10,5 @@ export function Toast({ message, onDismiss, duration = 2400 }: ToastProps) {
     const timer = window.setTimeout(() => dismiss.current(), duration);
     return () => window.clearTimeout(timer);
   }, [message, duration]);
-  return <div className="v8-toast" role="status" aria-live="polite" aria-atomic="true" hidden={!message}>{message}</div>;
+  return <div className="v8-toast" role="status" aria-live="polite" aria-atomic="true" hidden={!message}><span>{message}</span>{action && <Button disabled={action.disabled} onClick={action.onClick}>{action.label}</Button>}</div>;
 }

diff --git a/tests/e2e/v8-source-migration.spec.ts b/tests/e2e/v8-source-migration.spec.ts
@@ -53,7 +53,7 @@ test('optional local and AI sources round-trip without rewriting old records; fa
         if (origin) envelope.data.v8.planVersions[0].source = origin;
         await restore(envelope); const exported = JSON.parse(await (await backup.exportBackup()).text());
         await restore(exported); const again = JSON.parse(await (await backup.exportBackup()).text());
-        results.push({ origin: again.data.v8.planVersions[0].source ?? null, same: JSON.stringify(canonical(envelope.data.v8)) === JSON.stringify(canonical(again.data.v8)), version: exported.schemaVersion, metadata: exported.data.metadata.schemaVersion });
+        results.push({ origin: again.data.v8.planVersions[0].source ?? null, same: JSON.stringify(canonical({...envelope.data.v8,planReferences:envelope.data.v8.planReferences??[]})) === JSON.stringify(canonical(again.data.v8)), version: exported.schemaVersion, metadata: exported.data.metadata.schemaVersion });
       }
       const before = await snapshot(); const reject = () => { throw Error('injected restore failure'); }; db.v8PlanVersions.hook('creating', reject);
       const failed = await restore(source).then(() => false, () => true); db.v8PlanVersions.hook('creating').unsubscribe(reject);
